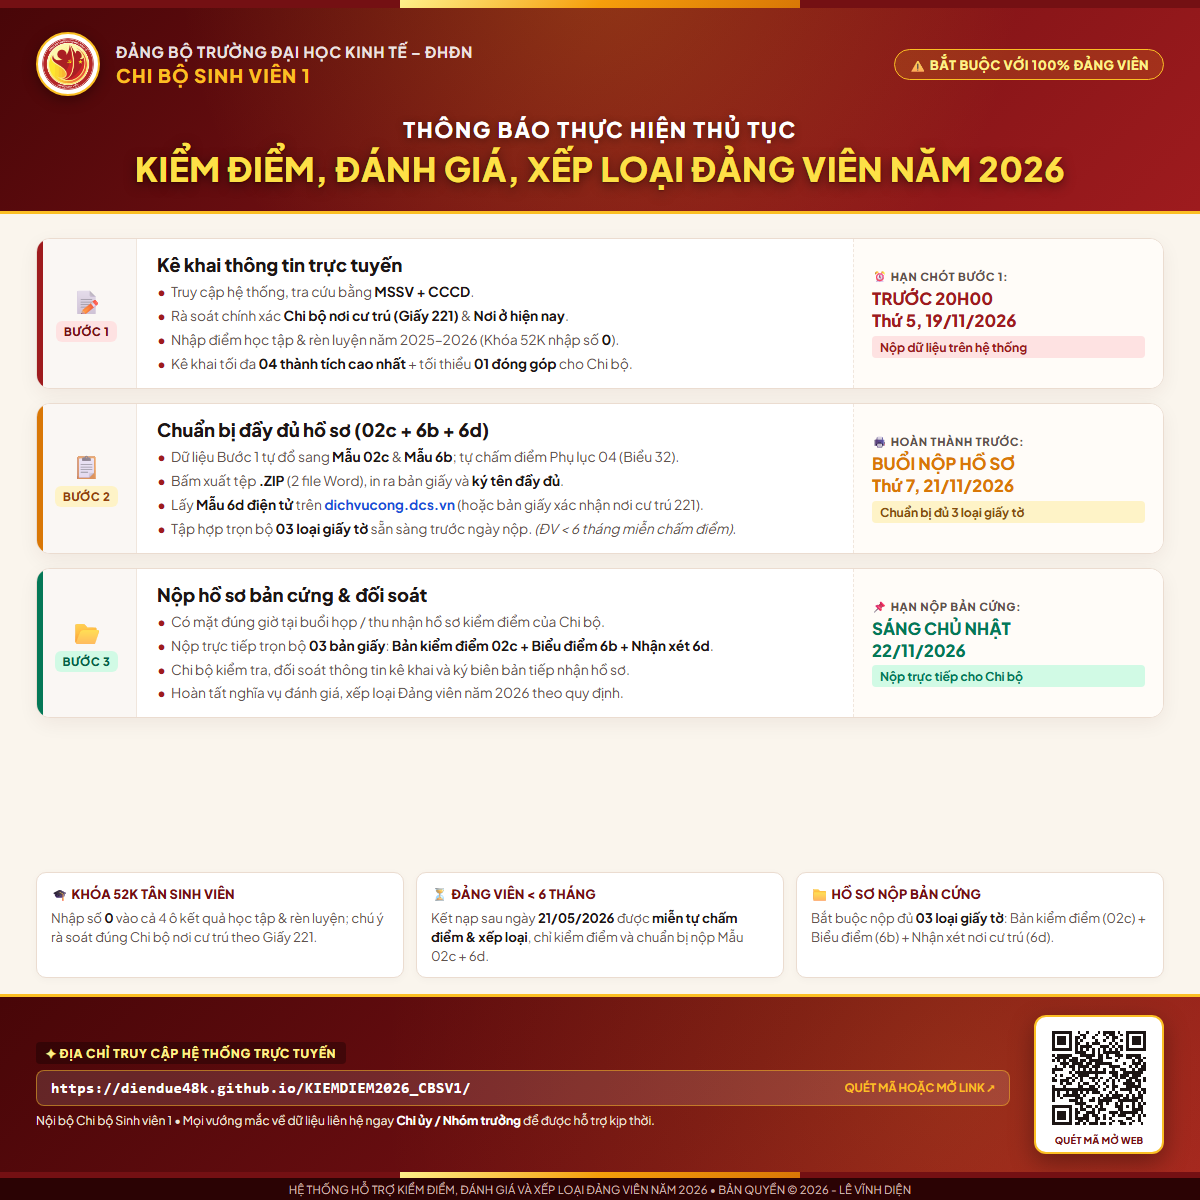
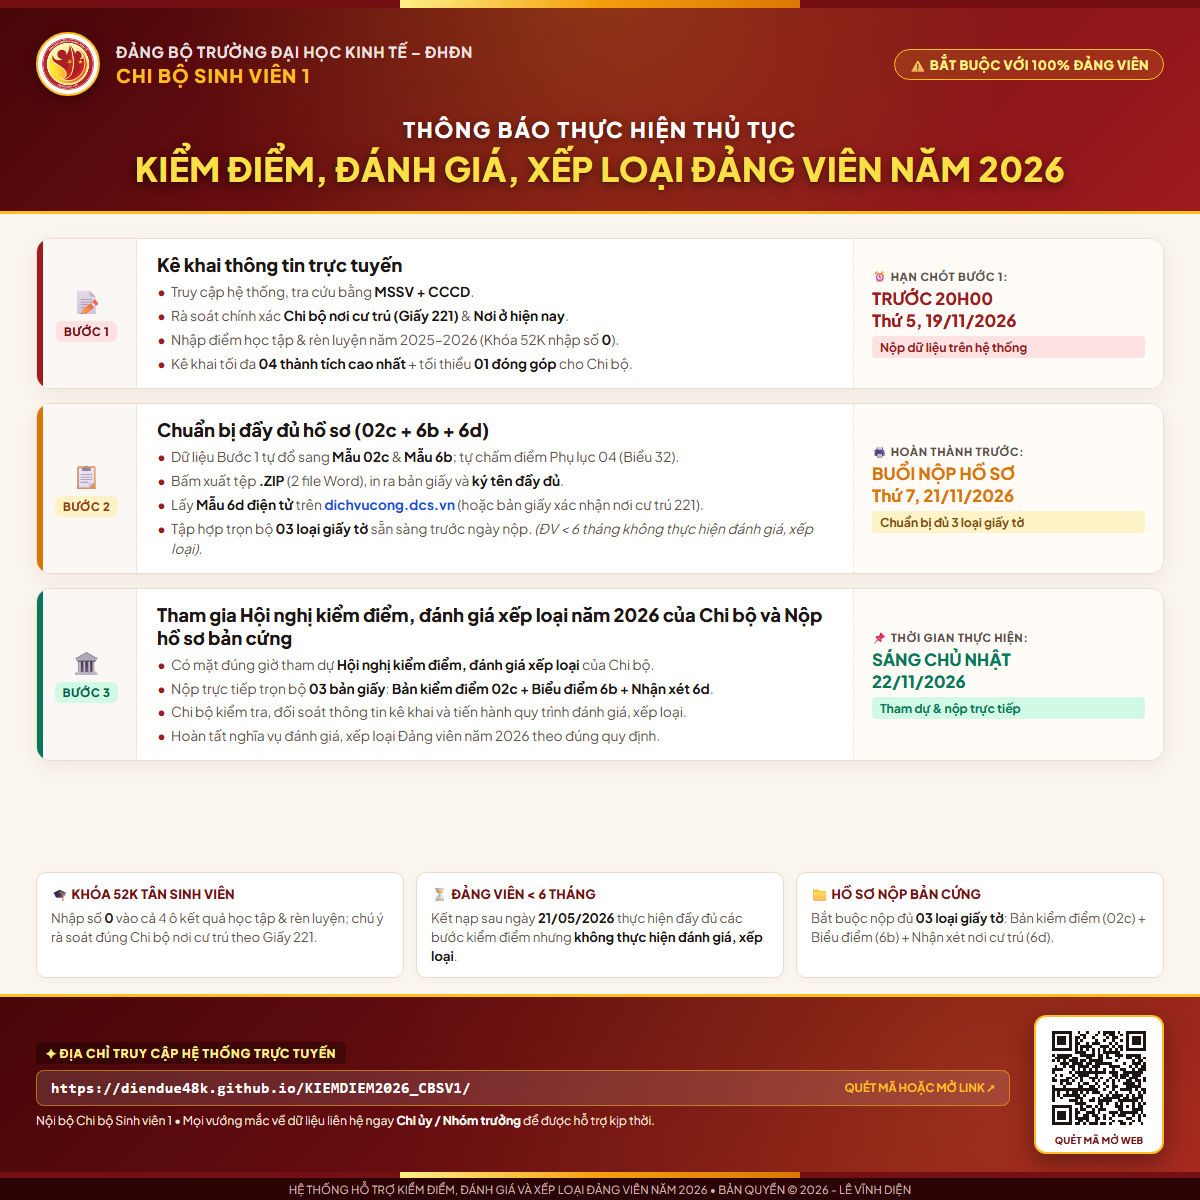
fix(poster): update Step 3 title to attend review conference and clarify <6 months rule

diff --git a/poster-yeu-cau.html b/poster-yeu-cau.html
@@ -680,7 +680,7 @@
                 <li>Dữ liệu Bước 1 tự đổ sang <strong>Mẫu 02c</strong> &amp; <strong>Mẫu 6b</strong>; tự chấm điểm Phụ lục 04 (Biểu 32).</li>
                 <li>Bấm xuất tệp <strong>.ZIP</strong> (2 file Word), in ra bản giấy và <strong>ký tên đầy đủ</strong>.</li>
                 <li>Lấy <strong>Mẫu 6d điện tử</strong> trên <strong style="color: var(--blue);">dichvucong.dcs.vn</strong> (hoặc bản giấy xác nhận nơi cư trú 221).</li>
-                <li>Tập hợp trọn bộ <strong>03 loại giấy tờ</strong> sẵn sàng trước ngày nộp. <em>(ĐV &lt; 6 tháng miễn chấm điểm)</em>.</li>
+                <li>Tập hợp trọn bộ <strong>03 loại giấy tờ</strong> sẵn sàng trước ngày nộp. <em>(ĐV &lt; 6 tháng không thực hiện đánh giá, xếp loại)</em>.</li>
               </ul>
             </div>
             <div class="step-col-deadline">
@@ -693,22 +693,22 @@
           <!-- BƯỚC 3 -->
           <div class="step-card step-3">
             <div class="step-col-num">
-              <span class="step-icon">📂</span>
+              <span class="step-icon">🏛</span>
               <span class="step-badge">BƯỚC 3</span>
             </div>
             <div class="step-col-content">
-              <h4>Nộp hồ sơ bản cứng &amp; đối soát</h4>
+              <h4>Tham gia Hội nghị kiểm điểm, đánh giá xếp loại năm 2026 của Chi bộ và Nộp hồ sơ bản cứng</h4>
               <ul>
-                <li>Có mặt đúng giờ tại buổi họp / thu nhận hồ sơ kiểm điểm của Chi bộ.</li>
+                <li>Có mặt đúng giờ tham dự <strong>Hội nghị kiểm điểm, đánh giá xếp loại</strong> của Chi bộ.</li>
                 <li>Nộp trực tiếp trọn bộ <strong>03 bản giấy</strong>: <strong>Bản kiểm điểm 02c + Biểu điểm 6b + Nhận xét 6d</strong>.</li>
-                <li>Chi bộ kiểm tra, đối soát thông tin kê khai và ký biên bản tiếp nhận hồ sơ.</li>
-                <li>Hoàn tất nghĩa vụ đánh giá, xếp loại Đảng viên năm 2026 theo quy định.</li>
+                <li>Chi bộ kiểm tra, đối soát thông tin kê khai và tiến hành quy trình đánh giá, xếp loại.</li>
+                <li>Hoàn tất nghĩa vụ đánh giá, xếp loại Đảng viên năm 2026 theo đúng quy định.</li>
               </ul>
             </div>
             <div class="step-col-deadline">
-              <div class="dl-label">📌 Hạn nộp bản cứng:</div>
+              <div class="dl-label">📌 Thời gian thực hiện:</div>
               <div class="dl-time">SÁNG CHỦ NHẬT<br>22/11/2026</div>
-              <span class="dl-action-note">Nộp trực tiếp cho Chi bộ</span>
+              <span class="dl-action-note">Tham dự &amp; nộp trực tiếp</span>
             </div>
           </div>
 
@@ -722,7 +722,7 @@
           </div>
           <div class="note-item">
             <div class="note-header">⏳ Đảng viên &lt; 6 tháng</div>
-            <div class="note-desc">Kết nạp sau ngày <strong>21/05/2026</strong> được <strong>miễn tự chấm điểm &amp; xếp loại</strong>, chỉ kiểm điểm và chuẩn bị nộp Mẫu 02c + 6d.</div>
+            <div class="note-desc">Kết nạp sau ngày <strong>21/05/2026</strong> thực hiện đầy đủ các bước kiểm điểm nhưng <strong>không thực hiện đánh giá, xếp loại</strong>.</div>
           </div>
           <div class="note-item">
             <div class="note-header">📁 Hồ sơ nộp bản cứng</div>

diff --git a/poster.html b/poster.html
@@ -1621,10 +1621,10 @@
                   <div>
                     <div class="step-top">
                       <span class="step-pill">Bước 3</span>
-                      <span class="step-icon-mini">📁</span>
+                      <span class="step-icon-mini">🏛</span>
                     </div>
-                    <h3>Nộp hồ sơ bản cứng</h3>
-                    <p>Nộp trực tiếp trọn bộ 03 bản giấy: <strong>Mẫu 02c + Mẫu 6b + Mẫu 6d</strong> cho Chi bộ tại buổi kiểm điểm để đối soát và tiếp nhận.</p>
+                    <h3>Hội nghị kiểm điểm &amp; Nộp hồ sơ</h3>
+                    <p>Tham gia Hội nghị kiểm điểm, đánh giá xếp loại năm 2026 của Chi bộ và nộp trực tiếp trọn bộ 03 bản giấy: <strong>02c + 6b + 6d</strong>.</p>
                   </div>
                   <div class="deadline-tag">📌 Sáng Chủ nhật, ngày 22/11/2026</div>
                 </div>
@@ -1748,9 +1748,9 @@
                   </div>
                   <div class="step-box">
                     <div>
-                      <div class="step-top"><span class="step-pill">Bước 3</span><span>📁</span></div>
-                      <h3>Nộp hồ sơ bản cứng</h3>
-                      <p>Nộp đủ bộ 03 bản giấy: <strong>02c + 6b + 6d</strong> trực tiếp cho Chi bộ tại buổi kiểm điểm để đối soát.</p>
+                      <div class="step-top"><span class="step-pill">Bước 3</span><span>🏛</span></div>
+                      <h3>Hội nghị kiểm điểm &amp; Nộp hồ sơ</h3>
+                      <p>Tham gia Hội nghị của Chi bộ và nộp trực tiếp đủ bộ 03 bản giấy: <strong>02c + 6b + 6d</strong> để đối soát.</p>
                     </div>
                     <div class="deadline-tag">Sáng Chủ nhật • 22/11/2026</div>
                   </div>

diff --git a/huong-dan.html b/huong-dan.html
@@ -849,7 +849,7 @@
             <ul class="guide-sub-ul">
               <li>Bấm <strong>"Xem Phụ lục 04 chấm điểm"</strong> ở góc phải thẻ để đối chiếu khung tiêu chí chấm điểm đối với Đảng viên là sinh viên (Biểu số 32 Quy định 345-QĐ/TU).</li>
               <li>Nhập <code>1. Tiêu chí chung</code> (tối đa <code>30</code> điểm) và <code>2. Kết quả thực hiện NV</code> (tối đa <code>70</code> điểm); hệ thống tự cộng tổng điểm <code>/100</code>.</li>
-              <li>Chọn mức đề xuất xếp loại phù hợp với tổng điểm và điều kiện năm học 2025 - 2026. <em>(Đảng viên kết nạp chưa đủ 6 tháng tính đến 21/11/2026 sẽ được tự động ẩn phần chấm điểm và xếp loại)</em>.</li>
+              <li>Chọn mức đề xuất xếp loại phù hợp với tổng điểm và điều kiện năm học 2025 - 2026. <em>(Đảng viên kết nạp chưa đủ 6 tháng tính đến 21/11/2026 thực hiện đầy đủ các bước kiểm điểm nhưng không thực hiện đánh giá, xếp loại)</em>.</li>
             </ul>
           </li>
           <li><strong>Phần C — Phiếu bổ sung hồ sơ Đảng viên (Mẫu 6b):</strong>

diff --git a/HUONG_DAN_DANG_VIEN_2026.md b/HUONG_DAN_DANG_VIEN_2026.md
@@ -34,9 +34,9 @@ Các đồng chí thực hiện đầy đủ theo 3 bước:
    • Xuất và in Mẫu 02c & 6b từ mục "Tạo hồ sơ để in" (tự chấm điểm theo Phụ lục 04), in ra giấy và ký tên.
    • Lấy Mẫu 6d (Nhận xét nơi cư trú): Tải bản điện tử trên https://dichvucong.dcs.vn (hoặc xin bản giấy xác nhận 2-QĐ 221).
    • Tập hợp trọn bộ 03 loại giấy tờ sẵn sàng trước ngày nộp.
-   (Đảng viên kết nạp chưa đủ 6 tháng tính đến 21/11/2026 được miễn tự chấm điểm/xếp loại, chỉ in nộp Mẫu 02c + 6d).
+   (Đảng viên kết nạp chưa đủ 6 tháng tính đến 21/11/2026 thực hiện đầy đủ các bước kiểm điểm nhưng không thực hiện đánh giá, xếp loại).
 
-3⃣ BƯỚC 3 - Nộp hồ sơ bản cứng & đối soát:
+3⃣ BƯỚC 3 - Tham gia Hội nghị kiểm điểm, đánh giá xếp loại của Chi bộ & Nộp hồ sơ bản cứng:
    • Có mặt đúng giờ tại buổi họp của Chi bộ, nộp trực tiếp đủ 03 bản giấy: Mẫu 02c + Mẫu 6b + Mẫu 6d.
    • HẠN NỘP BẢN CỨNG CHO CHI BỘ: Sáng Chủ nhật, ngày 22/11/2026.
 
